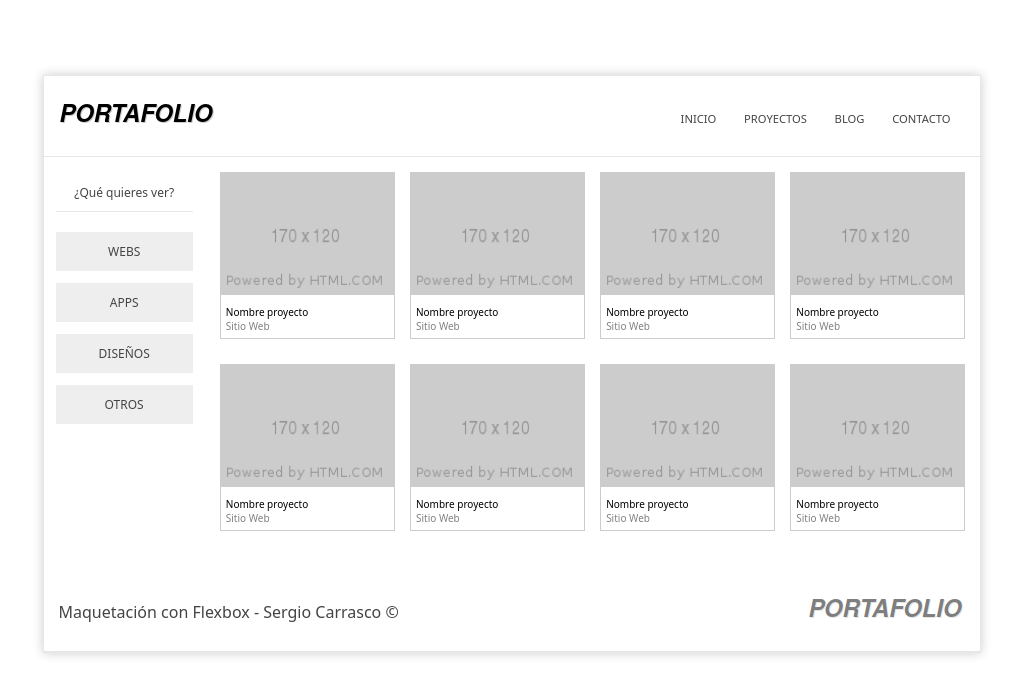
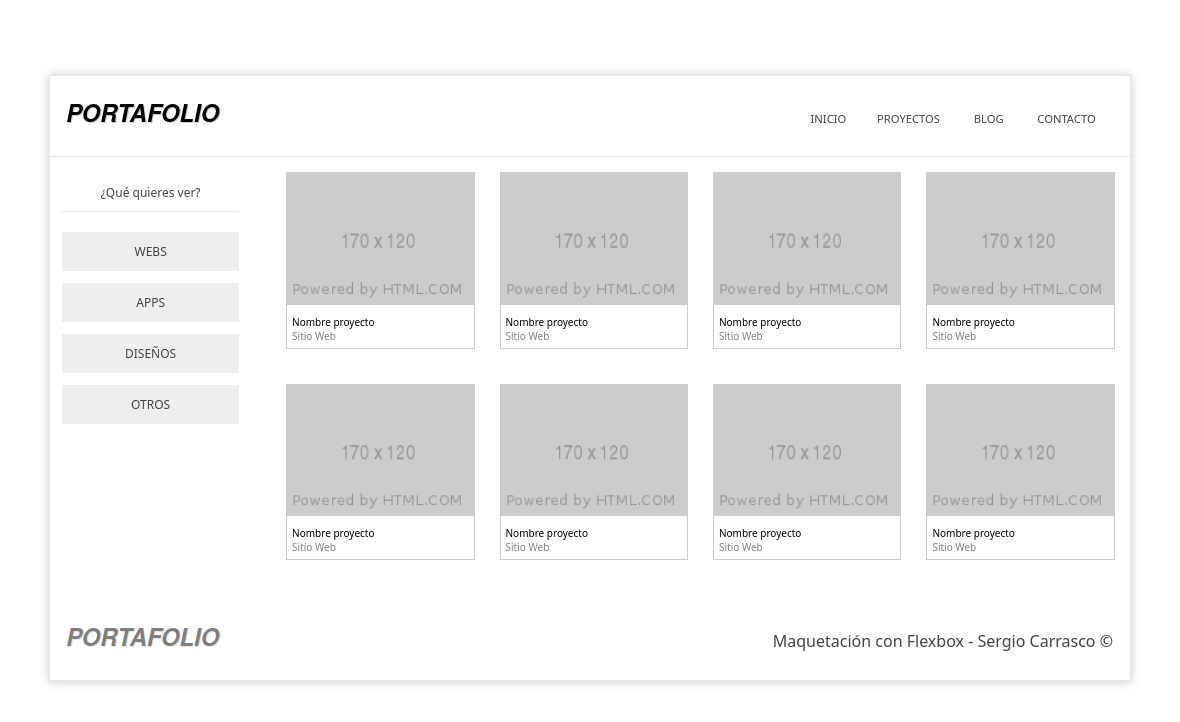
modifying responsive.css

diff --git a/responsive.css b/responsive.css
@@ -4,6 +4,12 @@
     }
 }
 
+@media(max-width: 800px) {
+    #projects {
+        gap: 0px;
+    }
+}
+
 @media(max-width: 830px) {
     #menu ul {
         margin-right: 12%;
@@ -60,6 +66,7 @@
     #projects {
         display: grid;
         grid-template-columns: repeat(3, 1fr);
+        gap: 10px;
     }
     .project {
         margin-bottom: 15px;
